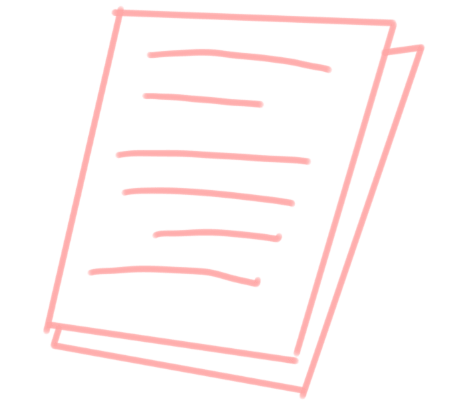
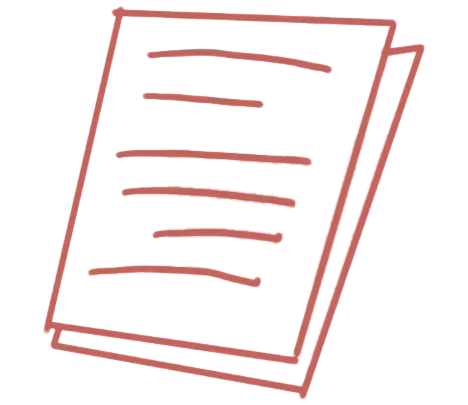
feat: improve visability

diff --git a/app/components/Home/Home.module.scss b/app/components/Home/Home.module.scss
@@ -60,7 +60,7 @@
   text-shadow: $pink-shadow 0 2px 5px;
   z-index: 1;
 
-  will-change: transform, opacity;
+  will-change: transform;
 }
 
 .name,
@@ -119,6 +119,11 @@
   width: 100%;
   height: 100%;
   z-index: 1;
+
+  @media (max-width: 500px) {
+    display: flex;
+    flex-direction: column;
+  }
 }
 .teacher {
   position: relative;
@@ -145,16 +150,41 @@
   font-family: var(--font-marck-script), sans-serif;
   font-size: clamp(2.1rem, 4.1vmin, 5rem);
   text-shadow: $pink 0 2px 5px;
-  color: $pink-text;
+  color: $dark-text;
 
-  will-change: transform, opacity;
+  animation: quoteAnim 3000ms ease-in-out infinite;
 
+  @keyframes quoteAnim {
+    0% {
+      transform: rotate(-13deg);
+    }
+    50% {
+      transform: rotate(-17deg);
+    }
+    100% {
+      transform: rotate(-13deg);
+    }
+  }
   @media (max-width: 568px) {
     line-height: 1.4;
   }
   @media (max-width: 500px) {
-    width: 95dvw;
-    z-index: -100;
+    position: static;
+    width: 100%;
+    transform: translateY(-10%);
+    z-index: 100;
+
+    @keyframes quoteAnim {
+      0% {
+        transform: translateY(-10%) rotate(-10deg);
+      }
+      50% {
+        transform: translateY(-10%) rotate(-7deg);
+      }
+      100% {
+        transform: translateY(-10%) rotate(-10deg);
+      }
+    }
   }
 
   @media (max-width: 700px) {
@@ -192,9 +222,8 @@
 .ruler {
   position: relative;
   object-fit: contain;
+  opacity: 0.64;
   z-index: -100 !important;
-
-  will-change: transform, opacity;
 }
 
 .note {

diff --git a/app/styles/variables.scss b/app/styles/variables.scss
@@ -3,6 +3,7 @@ $white: #fff;
 $black: #000;
 $pink: #fcd4d2;
 $pink-text: #f2b2ae;
+$dark-text: #a9655da5;
 $shadow: rgba(#524b4b, 0.45);
 $header-shadow: rgba(#524b4b, 0.55);
 $pink-shadow: rgba(#853a3a, 0.55);
